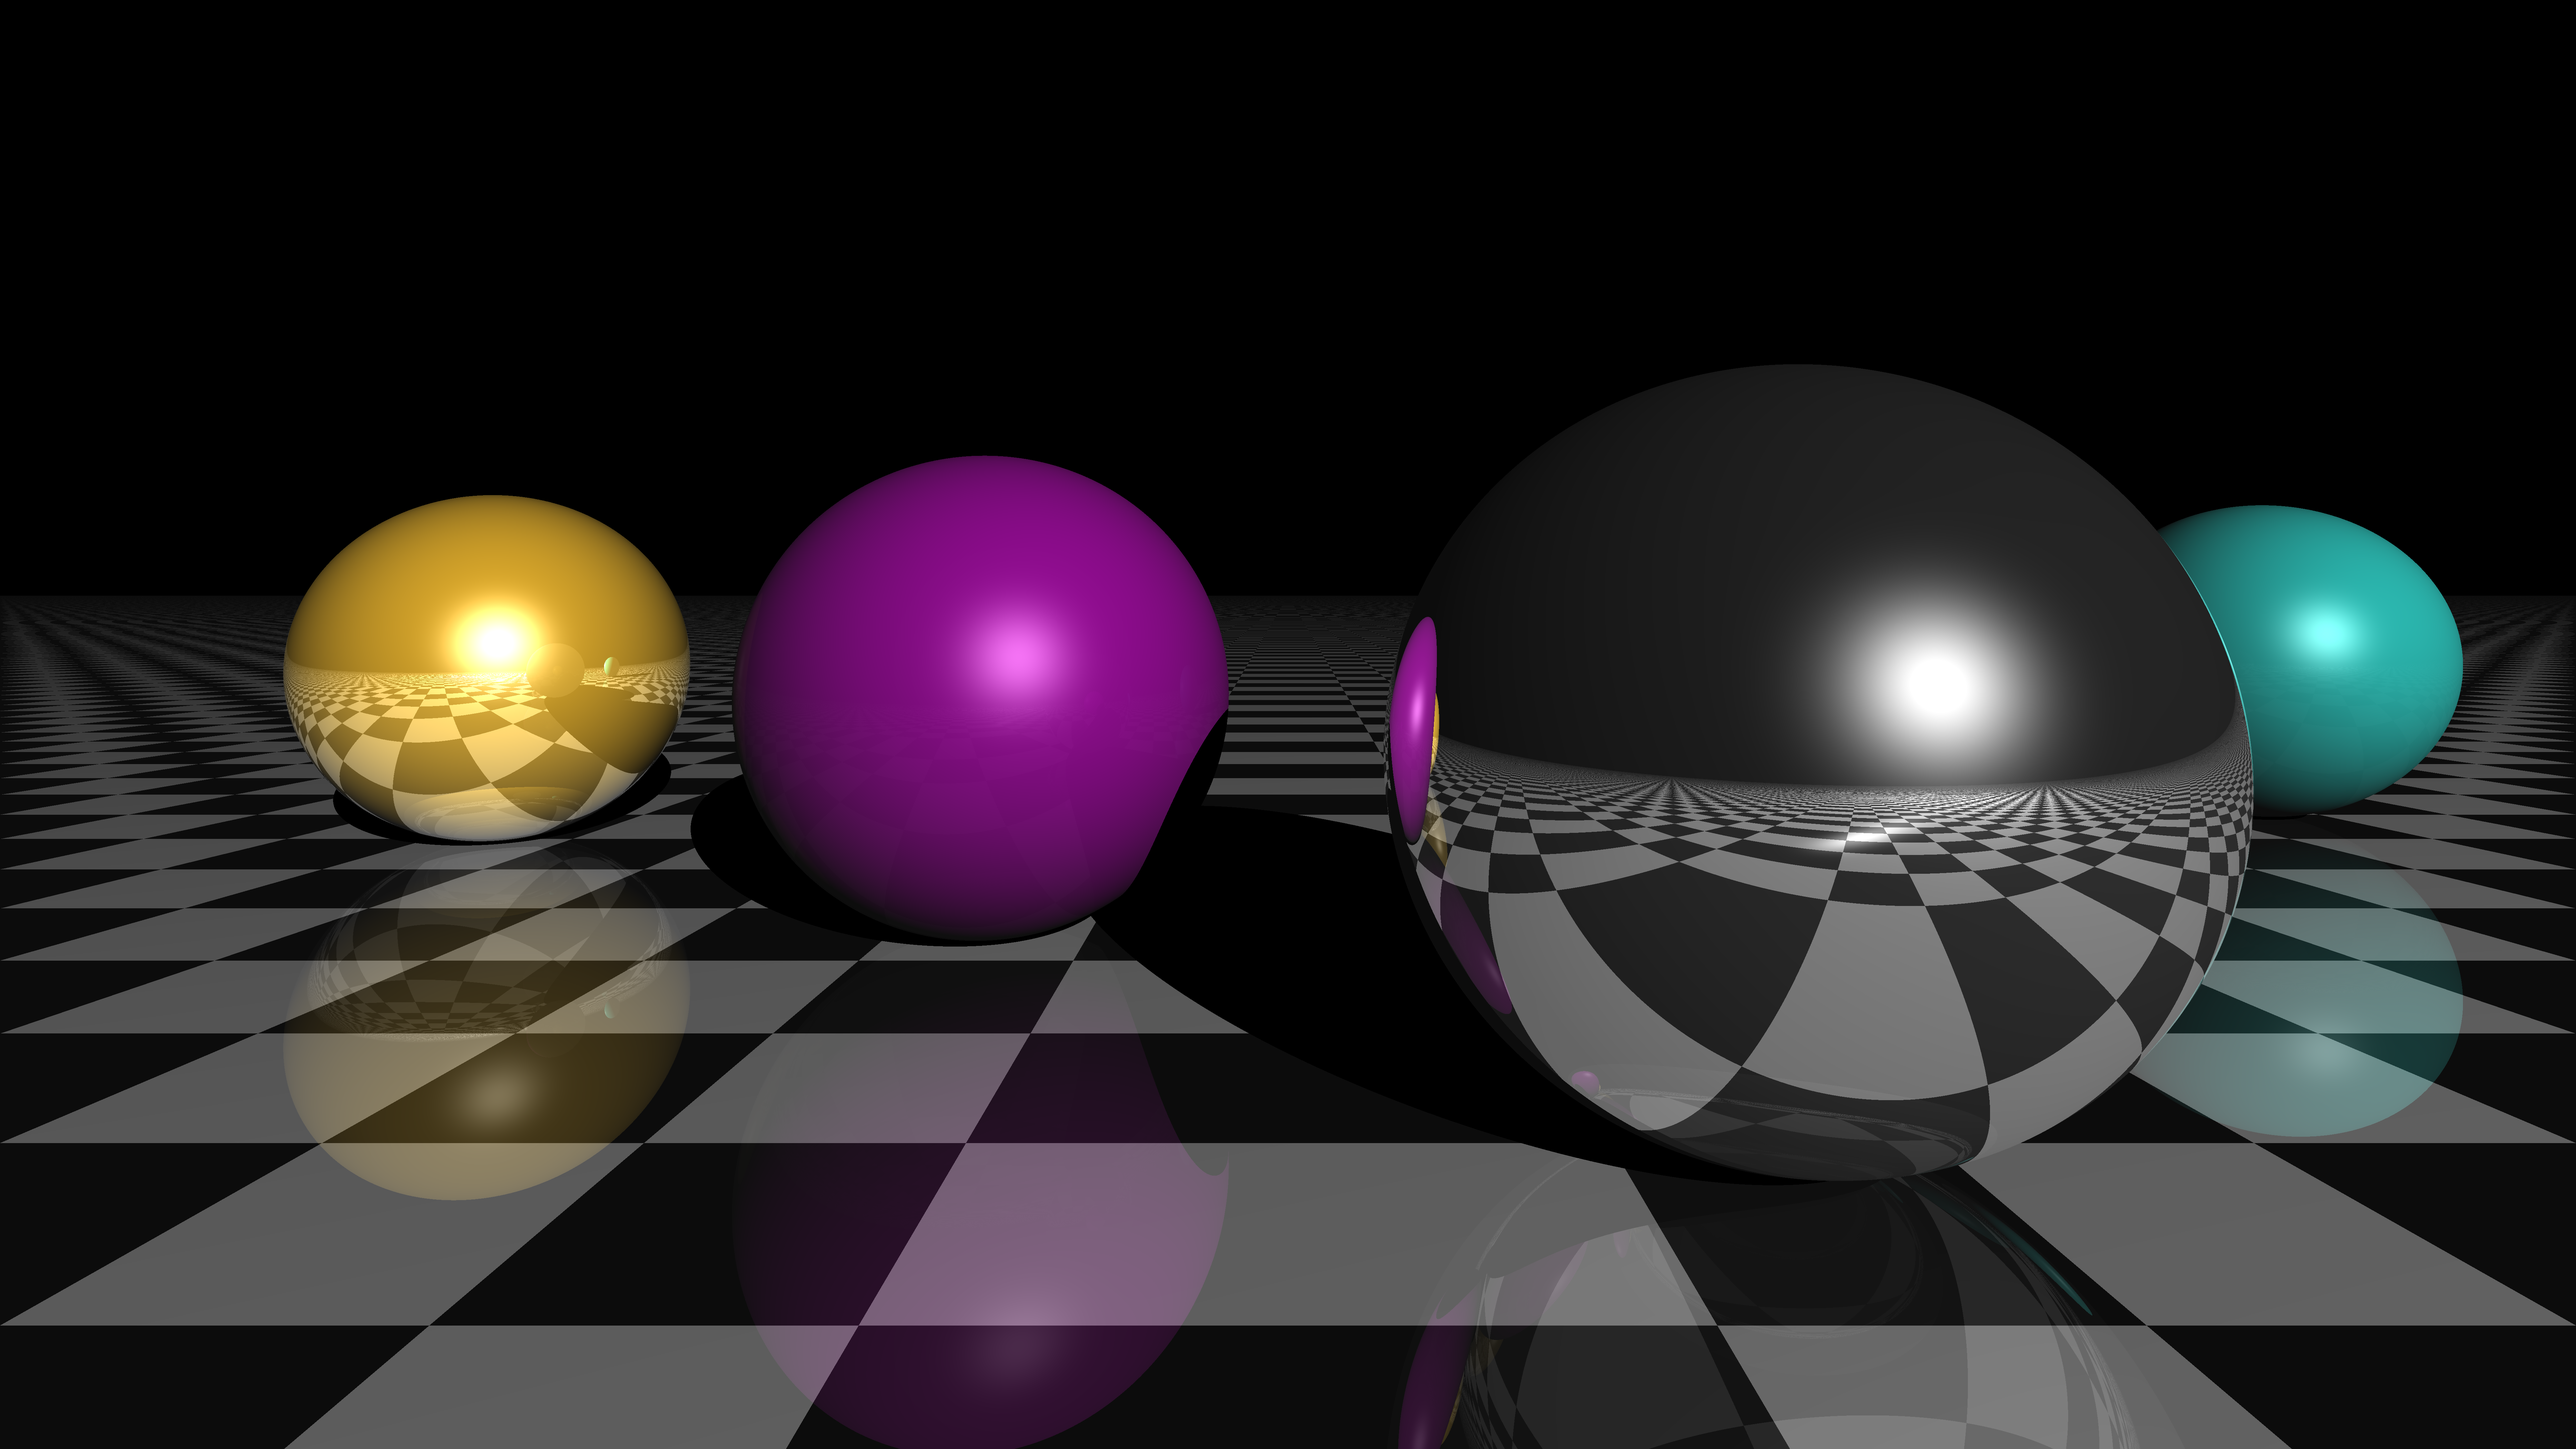
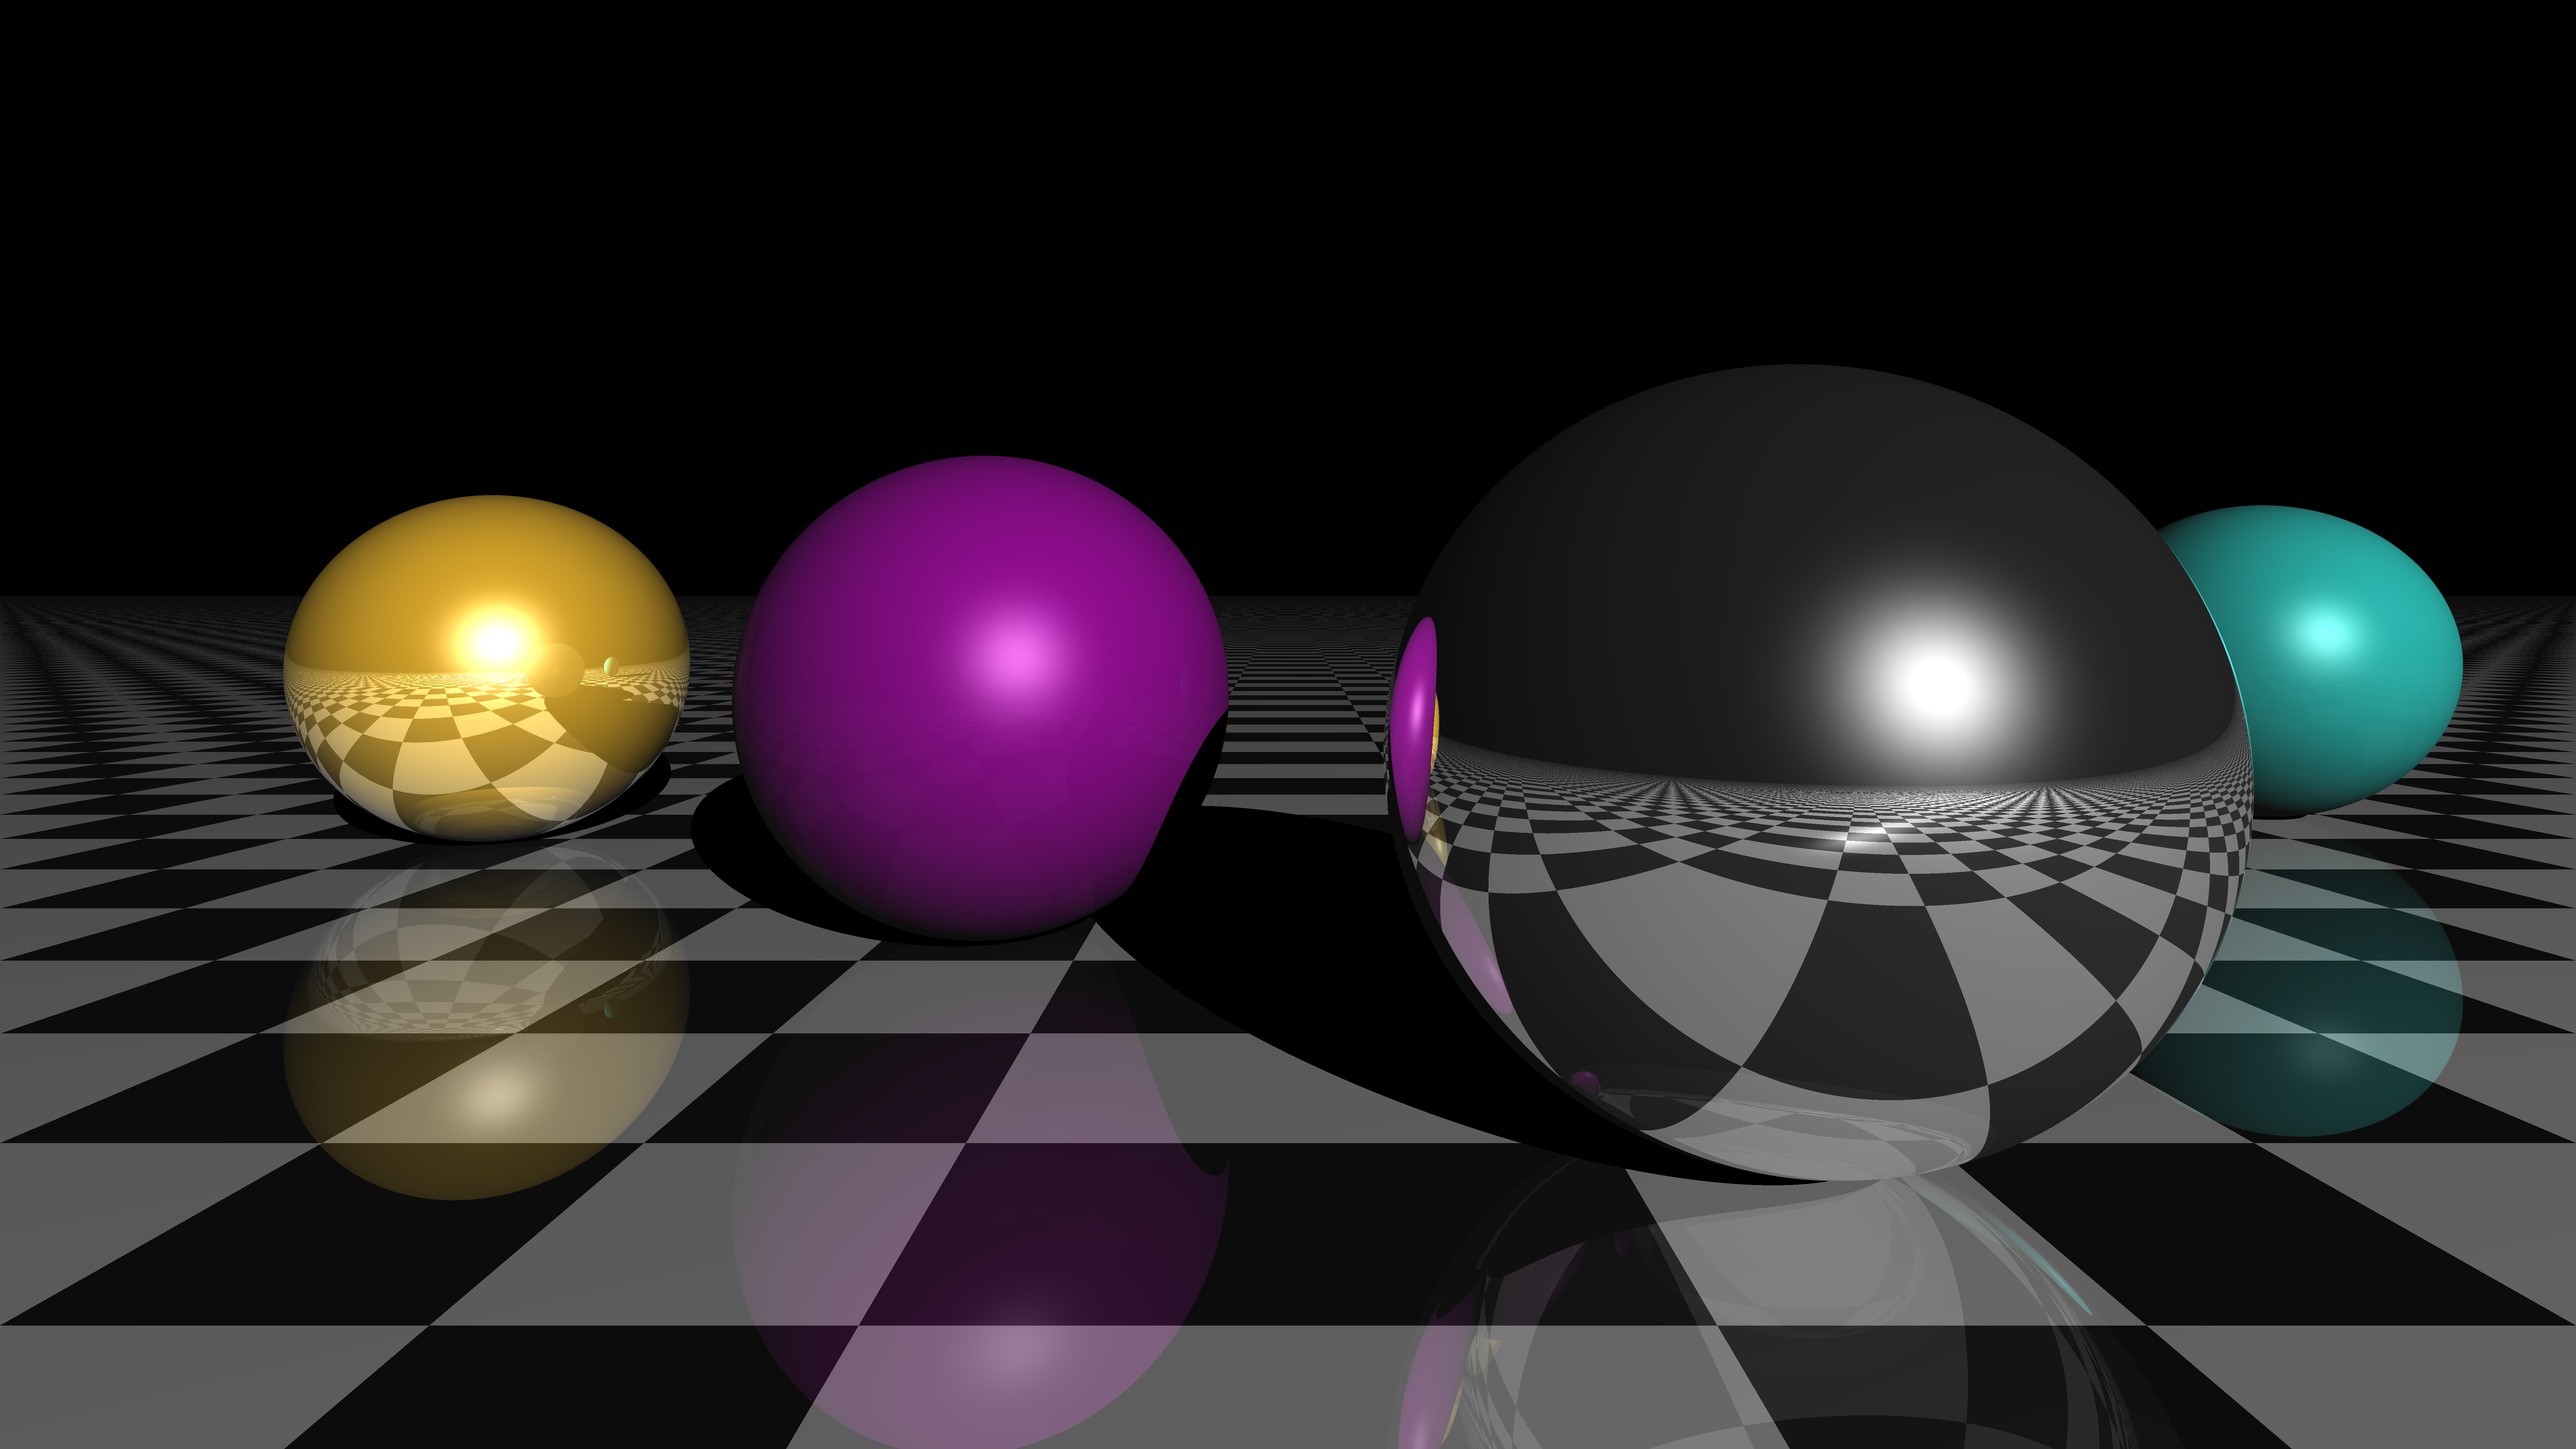
overflow bugfix

diff --git a/src/raytracer/mod.rs b/src/raytracer/mod.rs
@@ -1,17 +1,21 @@
 extern crate ndarray;
 use ndarray::*;
+
 extern crate image;
 use image::{ImageBuffer, Rgb};
+
 extern crate itertools;
 use itertools::Itertools;
+
 extern crate crossbeam;
+
 use std::default::Default;
 use std::sync::{Arc, Mutex};
 use std::time::SystemTime;
 
 use super::helper::*;
 use super::objects::{Scene};
-use super::Vector::Vector3D;
+use super::vector::Vector3D;
 
 struct ScreenCoordinates {
 	x0: f32,
@@ -21,7 +25,7 @@ struct ScreenCoordinates {
 }
 
 impl ScreenCoordinates {
-	fn fromRatio(ratio: f32) -> Self {
+	fn from_ratio(ratio: f32) -> Self {
 		Self {
 			x0: -1.,
 			y0: -1. / ratio + 0.25,
@@ -33,14 +37,14 @@ impl ScreenCoordinates {
 
 pub struct Camera {
 	position: Array1<f32>,
-	direction: Array1<f32>,
+	pointing_to: Array1<f32>,
 }
 
 impl Camera {
 	pub fn new(position: Vector3D, direction: Vector3D) -> Self {
 		Self {
 			position: position.to_ndarray(),
-			direction: direction.to_ndarray(),
+			pointing_to: direction.to_ndarray(),
 		}
 	}
 }
@@ -49,7 +53,7 @@ impl Default for Camera {
 	fn default() -> Self {
 		Self {
 			position: array![0., 0.35, -1.],
-			direction: array![0., 0., 0.],
+			pointing_to: array![0., 0., 0.],
 		}
 	}
 }
@@ -119,7 +123,7 @@ impl RayTracer {
 		let img_scope = img.clone();
 		let now = SystemTime::now();
 		let scope_result = crossbeam::scope(move |scope| {
-			let screen_coordinates = ScreenCoordinates::fromRatio(get_ratio(width, height));
+			let screen_coordinates = ScreenCoordinates::from_ratio(get_ratio(width, height));
 			let y_coordinates = Array::linspace(screen_coordinates.y0, screen_coordinates.y1, height);
 			let x_coordinates = Array::linspace(screen_coordinates.x0, screen_coordinates.x1, width);
 			let x_coordinates_chunks = x_coordinates.iter().cloned().enumerate().chunks((width as f64 / threads as f64).ceil() as usize);
@@ -132,7 +136,7 @@ impl RayTracer {
 
 				let handle = scope.spawn(move |_| {
 					let mut current_color: Array1<f32> = array![0., 0., 0.];
-					let mut camera_pointing_to: Array1<f32> = self.camera.direction.clone();
+					let mut camera_pointing_to: Array1<f32> = self.camera.pointing_to.clone();
 					for (index_x, x) in x_coordinates_chunk_clone {
 						for (index_y, y) in y_coordinates_clone.iter().enumerate() {
 							for index in 0..3 {

diff --git a/src/objects/mod.rs b/src/objects/mod.rs
@@ -1,7 +1,7 @@
 extern crate ndarray;
 use ndarray::*;
 use super::helper::*;
-use super::Vector::Vector3D;
+use super::vector::Vector3D;
 use std::sync::Arc;
 
 pub type SolidObjectArc = Arc<dyn SolidObject + Sync + Send>;
@@ -137,9 +137,7 @@ impl Checkerboard {
 impl SolidObject for Checkerboard {
 
 	fn get_color(&self, intersection: &Array1<f32>) -> &Array1<f32> {
-		let intersec_x = (intersection[0] * 2.) as i32 as u32;
-		let intersec_z = (intersection[2] * 2.) as i32 as u32;
-		if ((intersec_x + intersec_z) % 2) == 1 {
+		if ((intersection[0] * 2.) as i32 as u32 % 2) == ((intersection[2] * 2.) as i32 as u32 % 2) {
 			&self.white
 		} else {
 			&self.black

diff --git a/src/main.rs b/src/main.rs
@@ -1,7 +1,7 @@
 mod helper;
 use helper::*;
-mod Vector;
-use Vector::Vector3D;
+mod vector;
+use vector::Vector3D;
 mod objects;
 use objects::*;
 mod raytracer;
